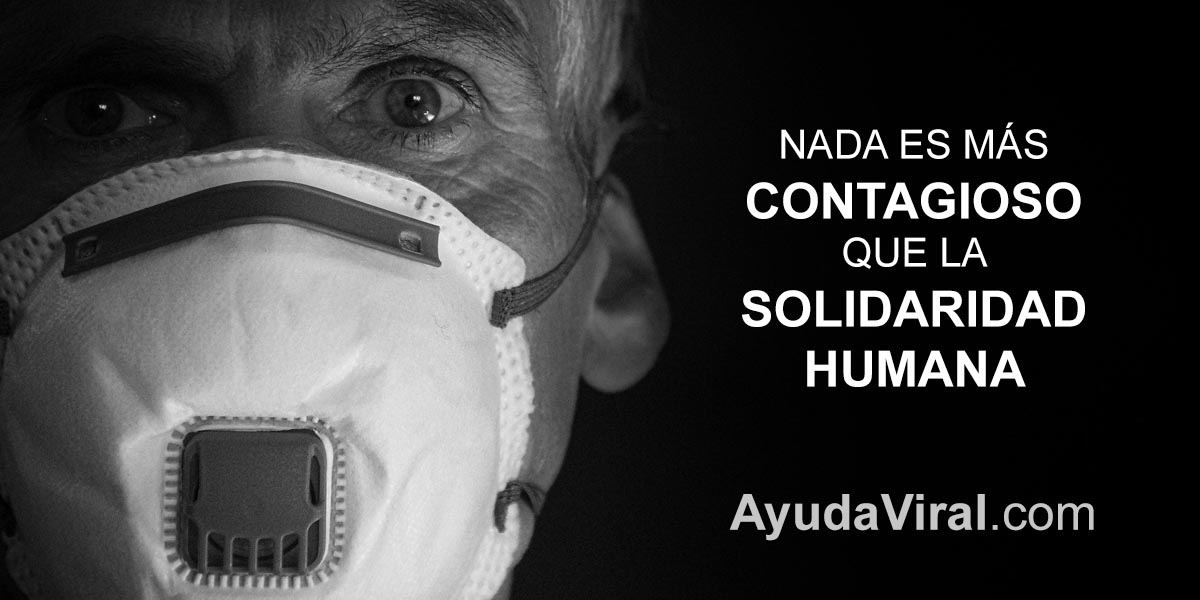
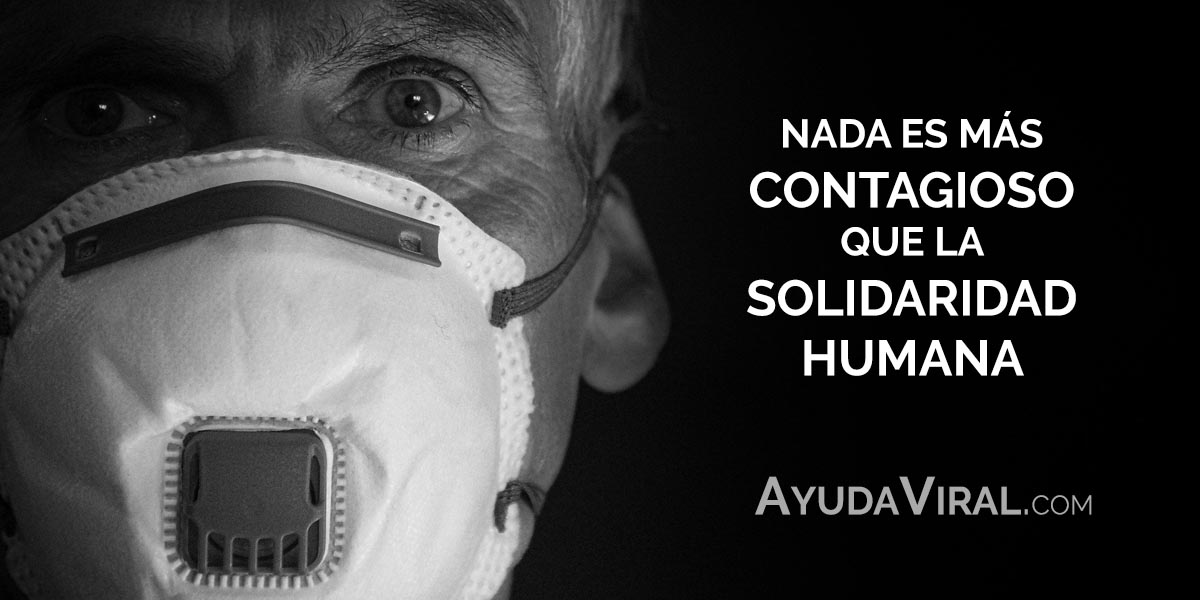
New video. Ready for launch.

Changed region(s): [[0.6167, 0.18, 0.925, 0.66], [0.5858, 0.78, 0.925, 0.9]]

diff --git a/index.html b/index.html
@@ -27,7 +27,9 @@
 
 		<!-- Header -->
 		<header id="header" class="alt">
-			<h1><strong><a href="index.html">Ayuda Viral</a></strong> Online</h1>
+			<h1><a href="index.html">
+				<span class="logo">A<span class="min">yuda</span>V<span class="min">iral</span>.<span class="com">com</span></span>
+			</a></h1>
 			<nav id="nav">
 				<ul>
 					<li><a href="#inicio">Inicio</a></li>
@@ -66,6 +68,9 @@
 							nuestro granito ayudando con <b>soluciones prácticas</b>, empezando por la creación de sencillas
 							<b>pantallas protectoras</b> ante la ausencia de mascarillas en el mercado.</p>
 					</div>
+					<div class="image fit">
+						<img src="images/pantallas.jpg" alt="Pantallas protectoras" />
+					</div>
 				</div>
 			</div>
 		</section>
@@ -78,7 +83,7 @@
 					<p>Cómo crear tu propia pantalla protectora en casa</p>
 				</header>
 				<div class="video-container">
-					<iframe width="853" height="480" src="https://www.youtube.com/embed/oRWVAK1ipJA?rel=0" allowfullscreen></iframe>
+					<iframe width="853" height="480" src="https://www.youtube.com/embed/V9clFb-3zKg?rel=0" allowfullscreen></iframe>
 				</div>
 			</div>
 		</section>
@@ -129,7 +134,7 @@
 				</div>
 				<p>&nbsp;</p>
 				<ul class="actions">
-					<li><a href="docs/ayudaviral.pdf" class="button special big">Ver en Grande</a></li>
+					<li><a href="https://www.google.com/maps/d/viewer?mid=1zlVQ7-0LT9ukMjhu00NAaiT8oXHxXVcg" class="button special big">Ver en Grande</a></li>
 					<li><a href="#contacto" class="button big">Colaborar</a></li>
 				</ul>
 			</div>

diff --git a/css/main.css b/css/main.css
@@ -66,6 +66,20 @@
 		font-size: 1.25em;
 	}
 
+	span.logo {
+		font-weight: bold;
+		font-size: 1.2em;
+	}
+
+	span.logo span.min {
+		font-size: 0.8em;
+	}
+
+	span.logo span.com {
+		font-weight: normal;
+		font-size: 0.6em;
+	}
+
 	header.right {
 		text-align: right;
 	}

diff --git a/README.md b/README.md
@@ -1,6 +1,16 @@
 # ayudaviral.com
 Website de la iniciativa [Ayuda Viral](https://ayudaviral.com)
 
+## Diseño
+
+Paleta de colores:
+* Blanco (#ffffff)
+* Gris (#aaaaaa)
+* Negro (#484848)
+* Violeta (#f32853)
+
+Fuente de texto [Raleway](https://fonts.google.com/specimen/Raleway)
+
 ## Recursos
 
 * [YouTube](https://studio.youtube.com/channel/UCpLB8xaPPJuYoWmhEhtf1sA/videos)
